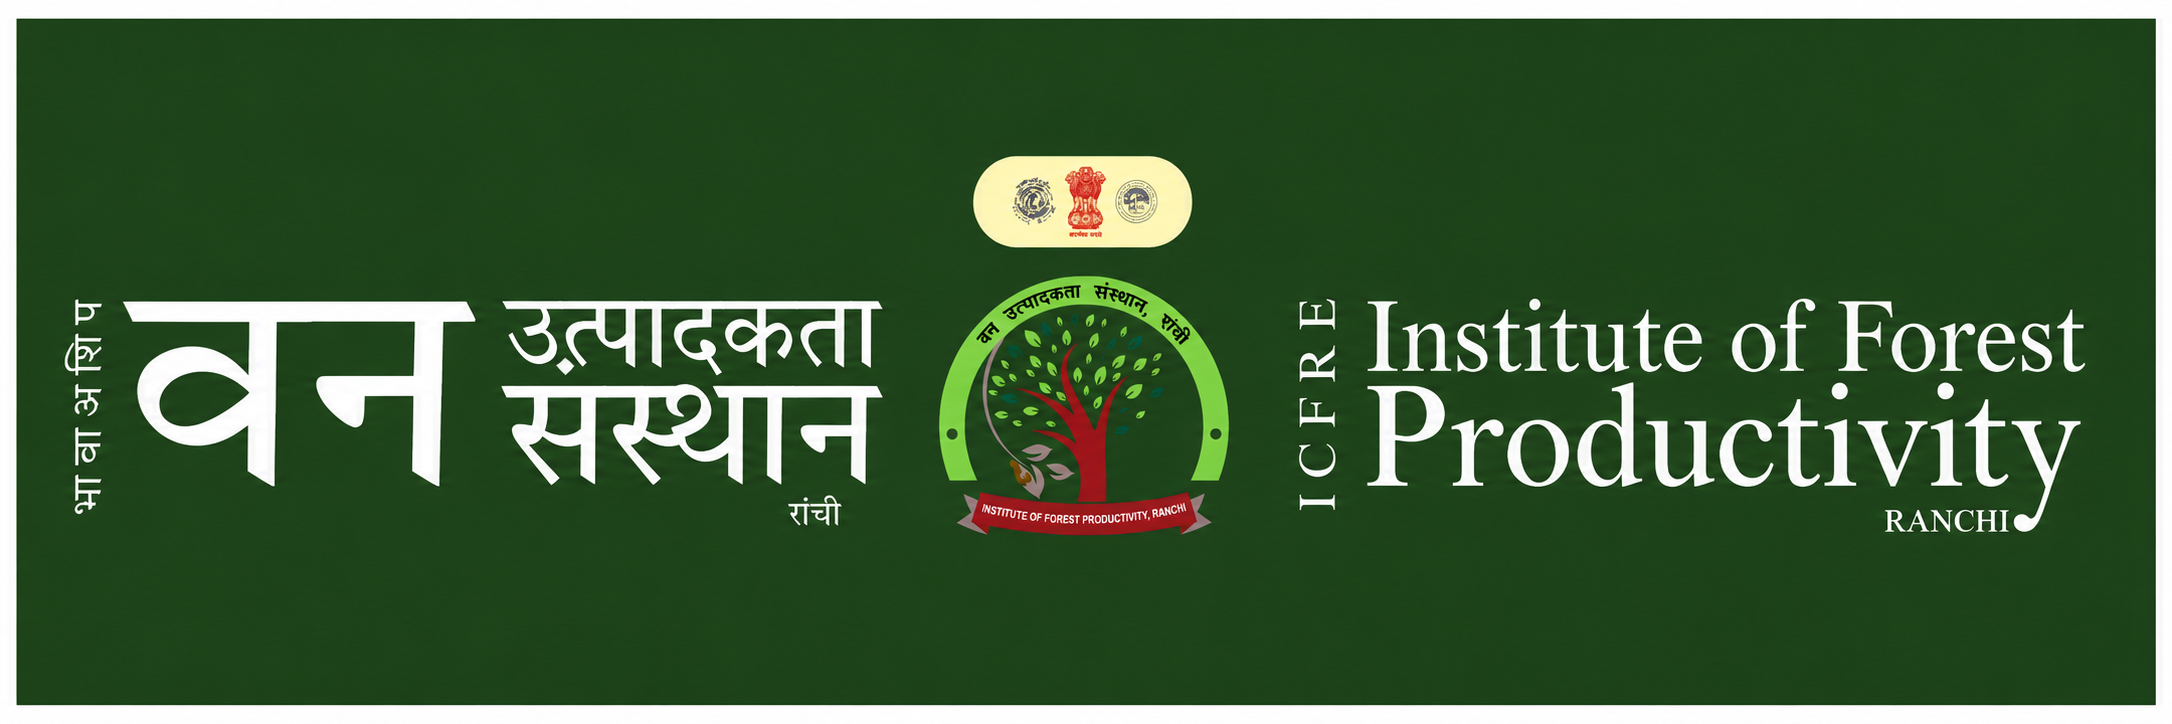
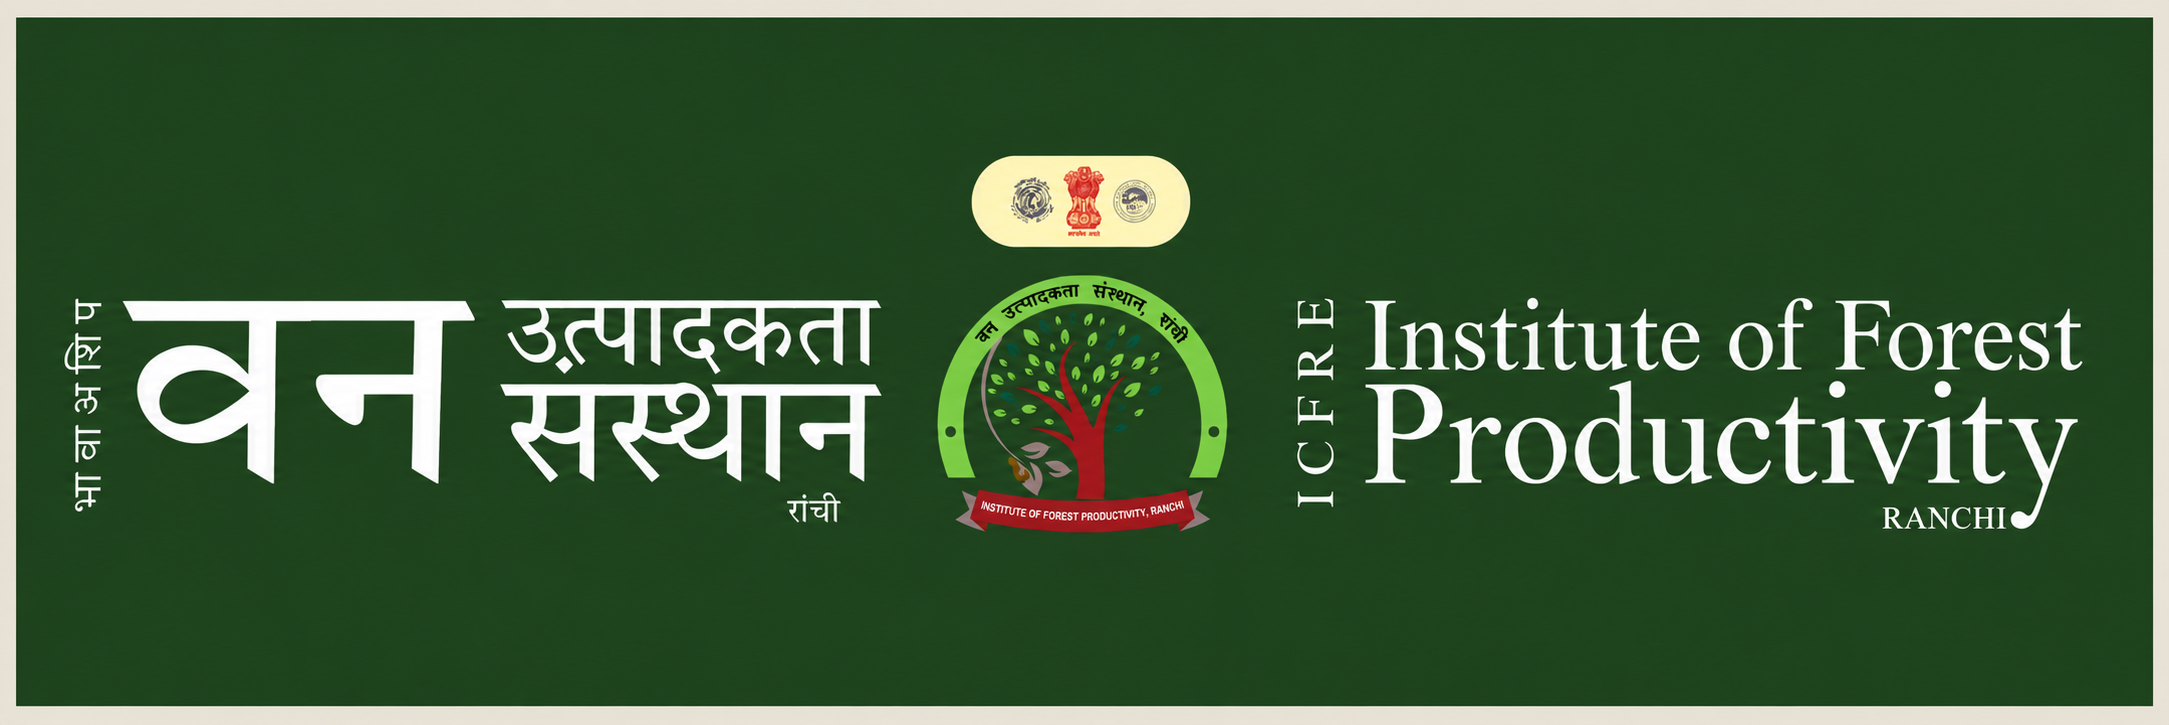
updated header, footer and improvised pdf generation process

diff --git a/pdf_gen.py b/pdf_gen.py
@@ -74,7 +74,7 @@ def _load_header(width: int) -> Image.Image:
 @lru_cache(maxsize=4)
 def _load_footer(width: int) -> Image.Image:
     img = Image.open(FOOTER_PATH).convert("RGB")
-    img = img.crop((0, 155, img.width, img.height))
+    img = img.crop((0, 100, img.width, img.height))
     return img.resize((width, int(width * img.height / img.width)), Image.LANCZOS)
 
 
@@ -89,17 +89,13 @@ def _img_to_pdf_bytes(img_bytes: bytes) -> bytes:
     return buf.read()
 
 
-def _pdf_to_images(pdf_bytes: bytes, width: int,
-                   skip_footer_crop: bool = False) -> list[Image.Image]:
+def _pdf_to_images(pdf_bytes: bytes, width: int) -> list[Image.Image]:
     doc    = fitz.open(stream=pdf_bytes, filetype="pdf")
     images = []
     for page in doc:
         scale = width / page.rect.width
         pix   = page.get_pixmap(matrix=fitz.Matrix(scale, scale), alpha=False)
-        img   = Image.frombytes("RGB", [pix.width, pix.height], pix.samples)
-        if not skip_footer_crop:
-            img = img.crop((0, 0, img.width, img.height - int(img.height * 0.07)))
-        images.append(img)
+        images.append(Image.frombytes("RGB", [pix.width, pix.height], pix.samples))
     doc.close()
     return images
 
@@ -146,22 +142,23 @@ def _render_info_section(row: dict, width: int) -> Image.Image:
     # Layout constants
     SEC_PAD_H    = 20    # left/right padding inside the section
     SEC_PAD_TOP  = 22    # top padding above heading
-    SEC_PAD_BOT  = 5    # bottom padding below content
-    HEADING_H    = 62    # increased to fit larger title
-    HEAD_GAP     = 24    # gap between heading and column content
+    SEC_PAD_BOT  = 5     # bottom padding below content
+    HEADING_H    = 70    # scaled ×(35/31) from 62
+    HEAD_GAP     = 27    # scaled ×(35/31) from 24
     COL_GAP      = 52    # horizontal gap between adjacent columns (divider centred here)
-    ICON_DIAM    = 50    # diameter of each icon circle
-    ICON_SZ      = 28    # SVG rasterise size (px)
-    ICON_TXT_GAP = 16    # gap from circle right edge to text block
-    LABEL_VAL_GAP= 6     # gap between label line and first value line
-    ITEM_GAP     = 36    # uniform gap between every row in the col-1 grid
-    H_DIV_INSET  = 12   # white-space inset on each side of the horizontal divider
-    ORN_SZ       = 25    # ornament leaf icon size
+    ICON_DIAM    = 64    # scaled ×1.3 from 50 (even for clean halving)
+    ICON_SZ      = 36    # scaled ×1.3 from 28
+    ICON_TXT_GAP = 21    # scaled ×1.3 from 16
+    LABEL_VAL_GAP= 8     # scaled ×1.3 from 6
+    ITEM_GAP     = 47    # scaled ×1.3 from 36
+    H_DIV_INSET  = 16    # scaled ×1.3 from 12
+    HDIV_MARGIN  = 28    # gap from horizontal divider down to second-row items in cols 2/3
+    ORN_SZ       = 28    # scaled ×(35/31) from 25
     LETTER_SPC   = 4     # extra px between heading characters
 
-    LABEL_SZ = 15
-    VALUE_SZ = 19
-    TITLE_SZ = 31    # +30% from 24
+    LABEL_SZ = 26    # +30% from 20
+    VALUE_SZ = 25    # +30% from 25
+    TITLE_SZ = 35    # +30% from 31
 
     label_font = get_font(LABEL_SZ, TABLE_FONT)
     value_font = get_font(VALUE_SZ, SERIF_FONT)
@@ -227,13 +224,15 @@ def _render_info_section(row: dict, width: int) -> Image.Image:
     max_col_h = col1_h
     for c in range(1, len(_COLUMNS)):
         for ri, (_, _, _, ih) in enumerate(col_items[c]):
-            ref_r = min(ri * 2, n_rows - 1)
-            bot = _rel_centers[ref_r] + ih // 2
+            if ri == 0:
+                bot = _rel_centers[0] + ih // 2
+            else:
+                bot = _rel_centers[1] + HDIV_MARGIN + ih
             max_col_h = max(max_col_h, bot)
 
     # ── Canvas ────────────────────────────────────────────────────────────────
     section_h = SEC_PAD_TOP + HEADING_H + HEAD_GAP + max_col_h + SEC_PAD_BOT
-    canvas = Image.new("RGB", (width, section_h), (255, 255, 255))
+    canvas = Image.new("RGB", (width, section_h), (233, 228, 222))
     draw   = ImageDraw.Draw(canvas)
 
     # ── Heading ───────────────────────────────────────────────────────────────
@@ -279,14 +278,14 @@ def _render_info_section(row: dict, width: int) -> Image.Image:
 
     has_h_div = n_rows > 1 and any(len(col_items[c]) > 1 for c in range(1, len(_COLUMNS)))
     if has_h_div:
-        hdiv_y = col1_centers[1]          # centre of the Vernacular (middle) row
+        hdiv_y = col1_centers[1] - 5      # shifted 5 px above Vernacular centre
         div1_x = col_x[1] - COL_GAP // 2  # vertical divider between col1 & col2
         div2_x = col_x[2] - COL_GAP // 2  # vertical divider between col2 & col3
         # Separate padded line for each right-hand column
         draw.line([(div1_x + H_DIV_INSET, hdiv_y), (div2_x - H_DIV_INSET, hdiv_y)],
-                  fill=_DIV_COLOR, width=1)
+                  fill=_DIV_COLOR, width=2)
         draw.line([(div2_x + H_DIV_INSET, hdiv_y), (width - SEC_PAD_H - H_DIV_INSET, hdiv_y)],
-                  fill=_DIV_COLOR, width=1)
+                  fill=_DIV_COLOR, width=2)
 
     # ── Column content ────────────────────────────────────────────────────────
     for col_idx, items in enumerate(col_items):
@@ -303,11 +302,16 @@ def _render_info_section(row: dict, width: int) -> Image.Image:
                 rh       = row_heights[r]
                 text_top = content_top + row_y[r] + (rh - text_block_h) // 2
             else:
-                # Cols 2/3: item-0 → row-0 centre (S.No level)
-                #           item-1 → row-2 centre (Scientific level)
-                ref_r    = r * 2
-                icon_cy  = col1_centers[min(ref_r, n_rows - 1)]
-                text_top = icon_cy - text_block_h // 2
+                if r == 0:
+                    icon_cy  = col1_centers[0]
+                    text_top = icon_cy - text_block_h // 2
+                else:
+                    # item-1: align just below the horizontal divider
+                    text_top = col1_centers[1] - 5 + HDIV_MARGIN
+                    # cap icon centering to max 2 value-lines so long wrapped
+                    # text (e.g. Remark) doesn't push the circle too far down
+                    cap_h   = lbl_h + LABEL_VAL_GAP + 2 * val_h
+                    icon_cy = text_top + max(ICON_DIAM, min(text_block_h, cap_h)) // 2
 
             icon = _load_svg_icon(svg_file, ICON_SZ,
                                   stroke_color=_FOREST_GREEN, fill_color=_ICON_FILL)
@@ -330,27 +334,33 @@ def _render_info_section(row: dict, width: int) -> Image.Image:
 
 
 # ── PDF assembler ─────────────────────────────────────────────────────────────
-def build_tree_pdf(pdf_bytes: bytes, row: dict,
-                   skip_footer_crop: bool = False) -> bytes:
+def build_tree_pdf(content_bytes: bytes, row: dict, is_image: bool = False) -> bytes:
     width  = PAGE_W
     margin = (PAGE_W - 1160) // 2
 
     info_img    = _render_info_section(row, width - 2 * margin)
-    info_canvas = Image.new("RGB", (width, info_img.height), "white")
+    info_canvas = Image.new("RGB", (width, info_img.height), (233, 228, 222))
     info_canvas.paste(info_img, (margin, 0))
 
-    spacer = Image.new("RGB", (width, 12), "white")
+    spacer = Image.new("RGB", (width, 1), (233, 228, 222))
     footer = _load_footer(width)
-    parts  = ([_load_header(width), spacer, info_canvas]
-              + _pdf_to_images(pdf_bytes, width, skip_footer_crop))
+
+    if is_image:
+        src = Image.open(io.BytesIO(content_bytes)).convert("RGB")
+        h   = int(width * src.height / src.width)
+        content_imgs = [src.resize((width, h), Image.LANCZOS)]
+    else:
+        content_imgs = _pdf_to_images(content_bytes, width)
+
+    parts  = ([_load_header(width), spacer, info_canvas] + content_imgs)
 
     body_h = sum(p.height for p in parts)
-    canvas = Image.new("RGB", (width, body_h + footer.height - 5), "white")
+    canvas = Image.new("RGB", (width, body_h + footer.height), "white")
     y = 0
     for p in parts:
         canvas.paste(p, (0, y))
         y += p.height
-    canvas.paste(footer, (0, body_h - 5))
+    canvas.paste(footer, (0, body_h))
 
     buf = io.BytesIO()
     canvas.save(buf, format="PDF", resolution=150)
@@ -405,10 +415,9 @@ def process_pdf_zip(
         for i, name in enumerate(matched):
             s_no      = Path(name).stem.strip()
             raw_bytes = in_zip.read(name)
-            pdf_bytes = _img_to_pdf_bytes(raw_bytes) if is_images else raw_bytes
             out_zip.writestr(
                 f"{s_no}.pdf",
-                build_tree_pdf(pdf_bytes, rows[s_no], skip_footer_crop=is_images),
+                build_tree_pdf(raw_bytes, rows[s_no], is_image=is_images),
             )
             if on_progress:
                 on_progress(i + 1, total)

diff --git a/main.py b/main.py
@@ -115,7 +115,7 @@ else:
     csv_up = st.file_uploader("XLSX or CSV file *", type=["xlsx", "csv"])
     if csv_up is not None:
         st.caption(f"{_count_records(csv_up)} Records found.")
-    zip_type = st.radio("ZIP contains", ["PDFs", "Images (JPEG / PNG)"], horizontal=True)
+    zip_type = st.radio("ZIP contains", ["Images (JPEG / PNG)", "PDFs"], horizontal=True)
     zip_up = st.file_uploader("Input ZIP *", type=["zip"])
     if zip_up is not None:
         st.caption(f"{_count_zip_files(zip_up)} Files found.")
